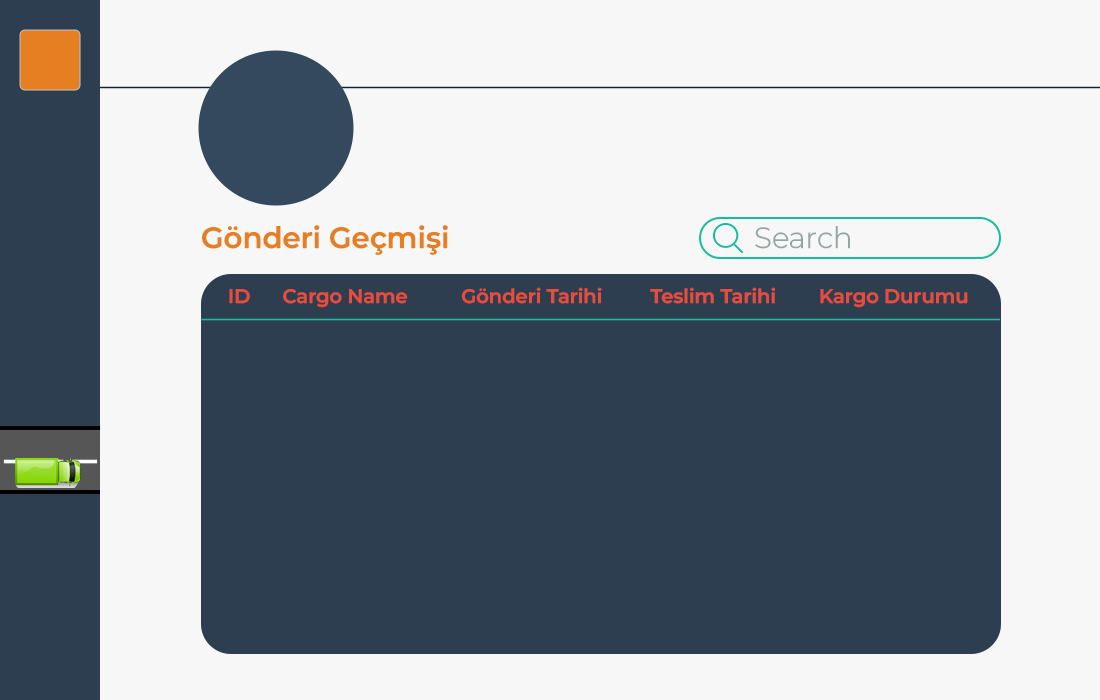
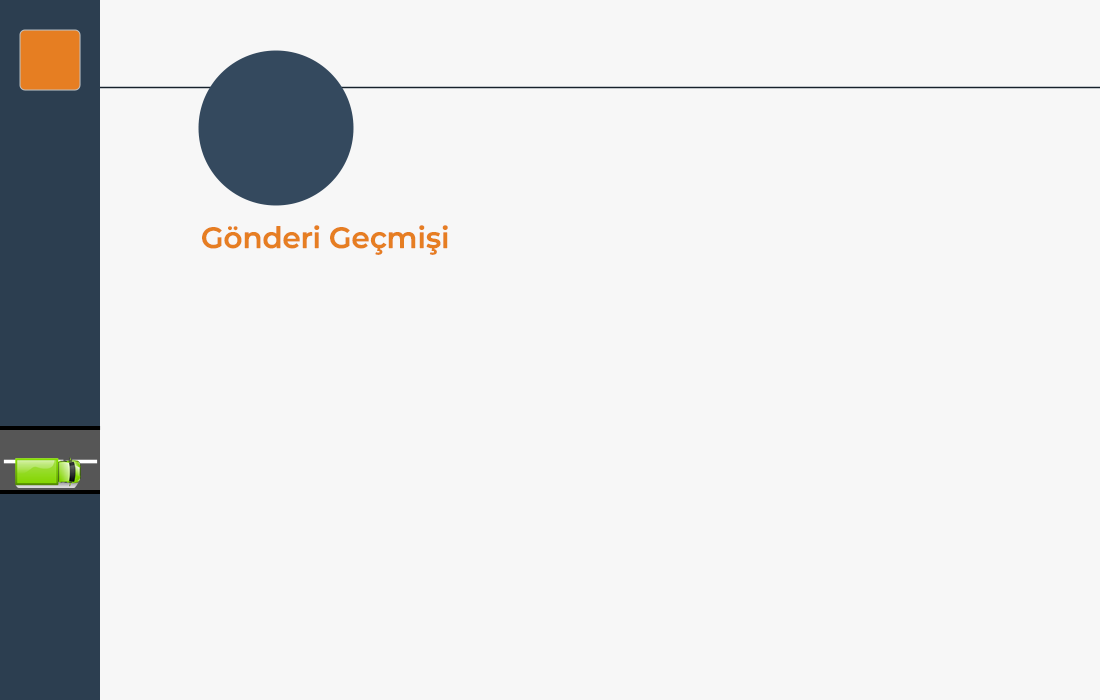
tables & searchBars

diff --git a/src/main/java/org/geldikYoktunuz/RoundedSearchBar.java b/src/main/java/org/geldikYoktunuz/RoundedSearchBar.java
@@ -1,0 +1,184 @@
+package org.geldikYoktunuz;
+
+import javax.swing.*;
+import java.awt.*;
+import java.awt.event.KeyAdapter;
+import java.awt.event.KeyEvent;
+import java.io.IOException;
+import java.util.function.Consumer;
+
+public class RoundedSearchBar extends JPanel {
+
+    public RoundedSearchBar() {
+        setLayout(new BorderLayout());
+        setBackground(new Color(0xf7f7f7)); // Light background color
+        setPreferredSize(new Dimension(300, 50)); // Set the preferred size for a taller look
+
+        // Search icon
+        JLabel searchIcon = new JLabel();
+        searchIcon.setIcon(new ImageIcon(getClass().getResource("/icons/search-icon.png")));
+        searchIcon.setBorder(BorderFactory.createEmptyBorder(0, 15, 0, 5)); // Adjust padding
+
+        // Search field
+        JTextField searchField = new JTextField("Search...") {
+            private boolean clicked = false;
+
+            @Override
+            public void paintComponent(Graphics g) {
+                super.paintComponent(g);
+                if (!clicked) {
+                    setCaretPosition(0);
+                    getCaret().setVisible(false);
+                }
+            }
+
+            @Override
+            public void processMouseEvent(java.awt.event.MouseEvent e) {
+                super.processMouseEvent(e);
+                if (e.getID() == java.awt.event.MouseEvent.MOUSE_CLICKED) {
+                    clicked = true;
+                    getCaret().setVisible(true);
+                }
+            }
+        };
+        searchField.setFont(getMontserratFont(26)); // Use Montserrat font
+        searchField.setForeground(new Color(0x95a5a6)); // Placeholder color
+        searchField.setBorder(BorderFactory.createEmptyBorder(5, 5, 5, 15)); // Remove default border
+        searchField.setOpaque(false); // Transparent background
+
+        // Placeholder behavior
+        searchField.addFocusListener(new java.awt.event.FocusAdapter() {
+            @Override
+            public void focusGained(java.awt.event.FocusEvent e) {
+                if (searchField.getText().equals("Search...")) {
+                    searchField.setText(""); // Clear placeholder on focus
+                    searchField.setForeground(Color.BLACK);
+                }
+            }
+
+            @Override
+            public void focusLost(java.awt.event.FocusEvent e) {
+                if (searchField.getText().isEmpty()) {
+                    searchField.setText("Search..."); // Reset placeholder if empty
+                    searchField.setForeground(new Color(0x95a5a6));
+                }
+            }
+        });
+
+        // Add components to the panel
+        add(searchIcon, BorderLayout.WEST);
+        add(searchField, BorderLayout.CENTER);
+    }
+
+    public RoundedSearchBar(Consumer<String> onSearch) {
+        setLayout(new BorderLayout());
+        setBackground(new Color(0xf7f7f7)); // Light background color
+        setPreferredSize(new Dimension(300, 50)); // Set the preferred size for a taller look
+
+        // Search icon
+        JLabel searchIcon = new JLabel();
+        searchIcon.setIcon(new ImageIcon(getClass().getResource("/icons/search-icon.png")));
+        searchIcon.setBorder(BorderFactory.createEmptyBorder(0, 15, 0, 5)); // Adjust padding
+
+        // Search field
+        JTextField searchField = new JTextField("Search...") {
+            private boolean clicked = false;
+
+            @Override
+            public void paintComponent(Graphics g) {
+                super.paintComponent(g);
+                if (!clicked) {
+                    setCaretPosition(0);
+                    getCaret().setVisible(false);
+                }
+            }
+
+            @Override
+            public void processMouseEvent(java.awt.event.MouseEvent e) {
+                super.processMouseEvent(e);
+                if (e.getID() == java.awt.event.MouseEvent.MOUSE_CLICKED) {
+                    clicked = true;
+                    getCaret().setVisible(true);
+                }
+            }
+        };
+        searchField.setFont(getMontserratFont(26)); // Use Montserrat font
+        searchField.setForeground(new Color(0x95a5a6)); // Placeholder color
+        searchField.setBorder(BorderFactory.createEmptyBorder(5, 5, 5, 15)); // Remove default border
+        searchField.setOpaque(false); // Transparent background
+
+        // Placeholder behavior
+        searchField.addFocusListener(new java.awt.event.FocusAdapter() {
+            @Override
+            public void focusGained(java.awt.event.FocusEvent e) {
+                if (searchField.getText().equals("Search...")) {
+                    searchField.setText(""); // Clear placeholder on focus
+                    searchField.setForeground(Color.BLACK);
+                }
+            }
+
+            @Override
+            public void focusLost(java.awt.event.FocusEvent e) {
+                if (searchField.getText().isEmpty()) {
+                    searchField.setText("Search..."); // Reset placeholder if empty
+                    searchField.setForeground(new Color(0x95a5a6));
+                }
+            }
+        });
+
+        // Notify on text change
+        searchField.addKeyListener(new KeyAdapter() {
+            @Override
+            public void keyReleased(KeyEvent e) {
+                onSearch.accept(searchField.getText());
+            }
+        });
+
+        // Add components to the panel
+        add(searchIcon, BorderLayout.WEST);
+        add(searchField, BorderLayout.CENTER);
+    }
+
+    @Override
+    protected void paintComponent(Graphics g) {
+        super.paintComponent(g);
+
+        Graphics2D g2d = (Graphics2D) g.create();
+
+        // Enable high-quality rendering settings
+        g2d.setRenderingHint(RenderingHints.KEY_ANTIALIASING, RenderingHints.VALUE_ANTIALIAS_ON);
+        g2d.setRenderingHint(RenderingHints.KEY_RENDERING, RenderingHints.VALUE_RENDER_QUALITY);
+        g2d.setRenderingHint(RenderingHints.KEY_STROKE_CONTROL, RenderingHints.VALUE_STROKE_PURE);
+
+        // Use rounded rectangle for borders
+        float arcSize = 50f;
+        float borderWidth = 2.5f;
+        float halfBorder = borderWidth / 2f;
+
+        g2d.setColor(new Color(0xf7f7f7));
+        g2d.fillRoundRect(0, 0, getWidth(), getHeight(), (int) arcSize, (int) arcSize);
+
+        g2d.setColor(new Color(0x16a085));
+        g2d.setStroke(new BasicStroke(borderWidth, BasicStroke.CAP_ROUND, BasicStroke.JOIN_ROUND));
+        g2d.drawRoundRect(
+                Math.round(halfBorder),
+                Math.round(halfBorder),
+                Math.round(getWidth() - borderWidth),
+                Math.round(getHeight() - borderWidth),
+                Math.round(arcSize),
+                Math.round(arcSize)
+        );
+
+        g2d.dispose();
+    }
+
+    private Font getMontserratFont(float size) {
+        try {
+            return Font.createFont(Font.TRUETYPE_FONT, getClass().getResourceAsStream("/fonts/Montserrat-Thin.ttf"))
+                    .deriveFont(size);
+        } catch (IOException | FontFormatException e) {
+            e.printStackTrace();
+            return new Font("SansSerif", Font.PLAIN, (int) size); // Fallback font
+        }
+    }
+}

diff --git a/src/main/java/org/geldikYoktunuz/AdminMainFrame.java b/src/main/java/org/geldikYoktunuz/AdminMainFrame.java
@@ -1,6 +1,8 @@
 package org.geldikYoktunuz;
 
 import javax.swing.*;
+import javax.swing.table.DefaultTableModel;
+import javax.swing.table.TableRowSorter;
 import java.awt.*;
 import java.awt.event.ActionEvent;
 import java.awt.event.ActionListener;
@@ -8,7 +10,7 @@ import java.awt.event.MouseEvent;
 import java.awt.event.MouseListener;
 import java.io.IOException;
 
-public class AdminMainFrame extends JFrame implements ActionListener {
+public class AdminMainFrame extends JFrame {
 
     public AdminMainFrame() {
         this.setName("adminFrame");
@@ -44,6 +46,10 @@ public class AdminMainFrame extends JFrame implements ActionListener {
 
         BackgroundImage bgManagement = new BackgroundImage("/backgrounds/bgManagement.png");
         bgManagement.setBounds(0, 0, 1100, 700);
+
+        RoundedSearchBar searchBarAll = new RoundedSearchBar();
+        searchBarAll.setBounds(740, 8, 300, 50);
+
 
         Object[][] data1 = {
                 {1, "Package A", "2024-12-01", "2024-12-03", "Delivered"},
@@ -174,6 +180,13 @@ public class AdminMainFrame extends JFrame implements ActionListener {
         // Create the custom table
         CustomTable customTable = new CustomTable(data, columnNames);
         customTable.setBounds(201, 274, 800, 380);
+
+        JTable table = customTable.getTable();
+
+
+
+        RoundedSearchBar searchBar = new RoundedSearchBar(filterText -> filterTable(table, filterText));
+        searchBar.setBounds(700, 218, 300, 50); // Position the search bar
 
 
 //        CircularImagePanel circularImagePanel = new CircularImagePanel("CustomerStorage.getCurrentCustomer().getCustomerPhoto()", 150);
@@ -315,6 +328,7 @@ public class AdminMainFrame extends JFrame implements ActionListener {
         managementLayer.add(labelEffectEditPackage, JLayeredPane.PALETTE_LAYER);
         managementLayer.add(customTable1, JLayeredPane.PALETTE_LAYER);
         managementLayer.add(customTable2, JLayeredPane.PALETTE_LAYER);
+        managementLayer.add(searchBarAll, JLayeredPane.PALETTE_LAYER);
 
 
         accountLayer.add(bgAccount, JLayeredPane.DEFAULT_LAYER);
@@ -322,6 +336,7 @@ public class AdminMainFrame extends JFrame implements ActionListener {
         accountLayer.add(labelID, JLayeredPane.PALETTE_LAYER);
 //        accountLayer.add(circularImagePanel, JLayeredPane.PALETTE_LAYER);
         accountLayer.add(customTable, JLayeredPane.PALETTE_LAYER);
+        accountLayer.add(searchBar, JLayeredPane.PALETTE_LAYER);
 
         this.setLayout(null);
         this.setTitle("Geldik Yoktunuz");
@@ -332,8 +347,23 @@ public class AdminMainFrame extends JFrame implements ActionListener {
         this.setResizable(false);
     }
 
-    @Override
-    public void actionPerformed(ActionEvent e) {
+    private static void filterTable(JTable table, String filterText) {
+        DefaultTableModel model = (DefaultTableModel) table.getModel();
+        TableRowSorter<DefaultTableModel> sorter = new TableRowSorter<>(model);
 
+        table.setRowSorter(sorter);
+
+        if (filterText == null || filterText.trim().isEmpty()) {
+            // If filter text is empty, show all rows
+            sorter.setRowFilter(null);
+        } else {
+            try {
+                // Filter rows based on the text
+                sorter.setRowFilter(RowFilter.regexFilter("(?i)" + filterText));
+            } catch (java.util.regex.PatternSyntaxException e) {
+                JOptionPane.showMessageDialog(null, "Invalid search text.", "Error", JOptionPane.ERROR_MESSAGE);
+            }
+        }
     }
+
 }

diff --git a/src/main/java/org/geldikYoktunuz/CustomerMainFrame.java b/src/main/java/org/geldikYoktunuz/CustomerMainFrame.java
@@ -1,6 +1,8 @@
 package org.geldikYoktunuz;
 
 import javax.swing.*;
+import javax.swing.table.DefaultTableModel;
+import javax.swing.table.TableRowSorter;
 import java.awt.*;
 import java.awt.event.MouseEvent;
 import java.awt.event.MouseListener;
@@ -65,9 +67,20 @@ public class CustomerMainFrame extends JFrame {
         // Column names
         String[] columnNames = {"ID", "Cargo Name", "Gönderi Tarihi", "Teslim Tarihi", "Kargo Durumu"};
 
+
         // Create the custom table
         CustomTable customTable = new CustomTable(data, columnNames);
         customTable.setBounds(201, 274, 800, 380);
+
+        JTable table = customTable.getTable();
+
+
+
+        RoundedSearchBar searchBar = new RoundedSearchBar(filterText -> filterTable(table, filterText));
+        searchBar.setBounds(700, 218, 300, 50); // Position the search bar
+
+
+
 
 //        CircularImagePanel circularImagePanel = new CircularImagePanel("CustomerStorage.getCurrentCustomer().getCustomerPhoto()", 150);
 //        circularImagePanel.setBounds(201, 53, 150, 150);
@@ -193,6 +206,7 @@ public class CustomerMainFrame extends JFrame {
         accountLayer.add(labelNameSurname, JLayeredPane.PALETTE_LAYER);
         accountLayer.add(labelID, JLayeredPane.PALETTE_LAYER);
         accountLayer.add(customTable, JLayeredPane.PALETTE_LAYER);
+        accountLayer.add(searchBar, JLayeredPane.PALETTE_LAYER);
 
         this.setLayout(null);
         this.setTitle("Geldik Yoktunuz");
@@ -202,4 +216,24 @@ public class CustomerMainFrame extends JFrame {
         this.setVisible(true);
         this.setResizable(false);
     }
+
+    private static void filterTable(JTable table, String filterText) {
+        DefaultTableModel model = (DefaultTableModel) table.getModel();
+        TableRowSorter<DefaultTableModel> sorter = new TableRowSorter<>(model);
+
+        table.setRowSorter(sorter);
+
+        if (filterText == null || filterText.trim().isEmpty()) {
+            // If filter text is empty, show all rows
+            sorter.setRowFilter(null);
+        } else {
+            try {
+                // Filter rows based on the text
+                sorter.setRowFilter(RowFilter.regexFilter("(?i)" + filterText));
+            } catch (java.util.regex.PatternSyntaxException e) {
+                JOptionPane.showMessageDialog(null, "Invalid search text.", "Error", JOptionPane.ERROR_MESSAGE);
+            }
+        }
+    }
+
 }

diff --git a/src/main/java/org/geldikYoktunuz/CustomTable.java b/src/main/java/org/geldikYoktunuz/CustomTable.java
@@ -9,6 +9,8 @@ import java.io.IOException;
 
 public class CustomTable extends JPanel {
 
+    JTable table;
+
     public CustomTable(Object[][] data, String[] columnNames) {
         setLayout(new BorderLayout());
         setPreferredSize(new Dimension(800, 380)); // Set panel size
@@ -24,7 +26,7 @@ public class CustomTable extends JPanel {
             }
         };
 
-        JTable table = new JTable(tableModel) {
+        table = new JTable(tableModel) {
             @Override
             public Component prepareRenderer(TableCellRenderer renderer, int row, int column) {
                 Component component = super.prepareRenderer(renderer, row, column);
@@ -67,9 +69,8 @@ public class CustomTable extends JPanel {
         table.setFocusable(false);
         table.setRowSelectionAllowed(true);
         table.setSelectionMode(ListSelectionModel.SINGLE_SELECTION);
-
-        // Enable sorting
-        table.setAutoCreateRowSorter(true);
+        table.setAutoCreateRowSorter(true); // Enable sorting
+        table.setRowHeight(40);
 
         // Adjust column widths: ID column tighter, others equal
         int totalWidth = 800; // Total width of the table
@@ -145,7 +146,6 @@ public class CustomTable extends JPanel {
             }
         };
 
-
         roundedPanel.setLayout(new BorderLayout());
         roundedPanel.setPreferredSize(new Dimension(800, 380)); // Set rounded panel size
         roundedPanel.setBorder(BorderFactory.createEmptyBorder(10, 10, 10, 10));
@@ -200,5 +200,9 @@ public class CustomTable extends JPanel {
 
         newFrame.add(panel);
         newFrame.setVisible(true);
+    }
+
+    public JTable getTable() {
+        return table; // Expose the JTable instance
     }
 }
